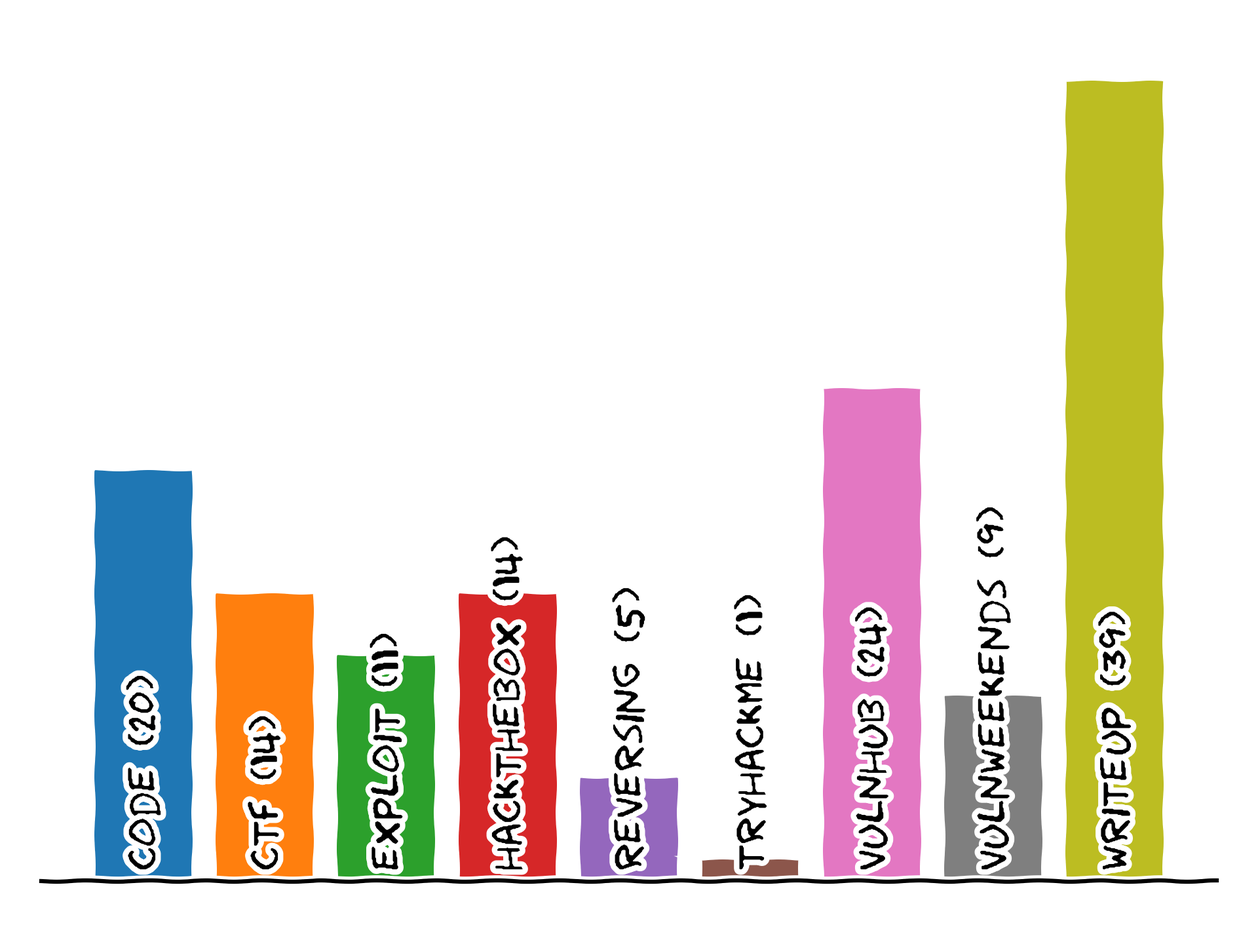
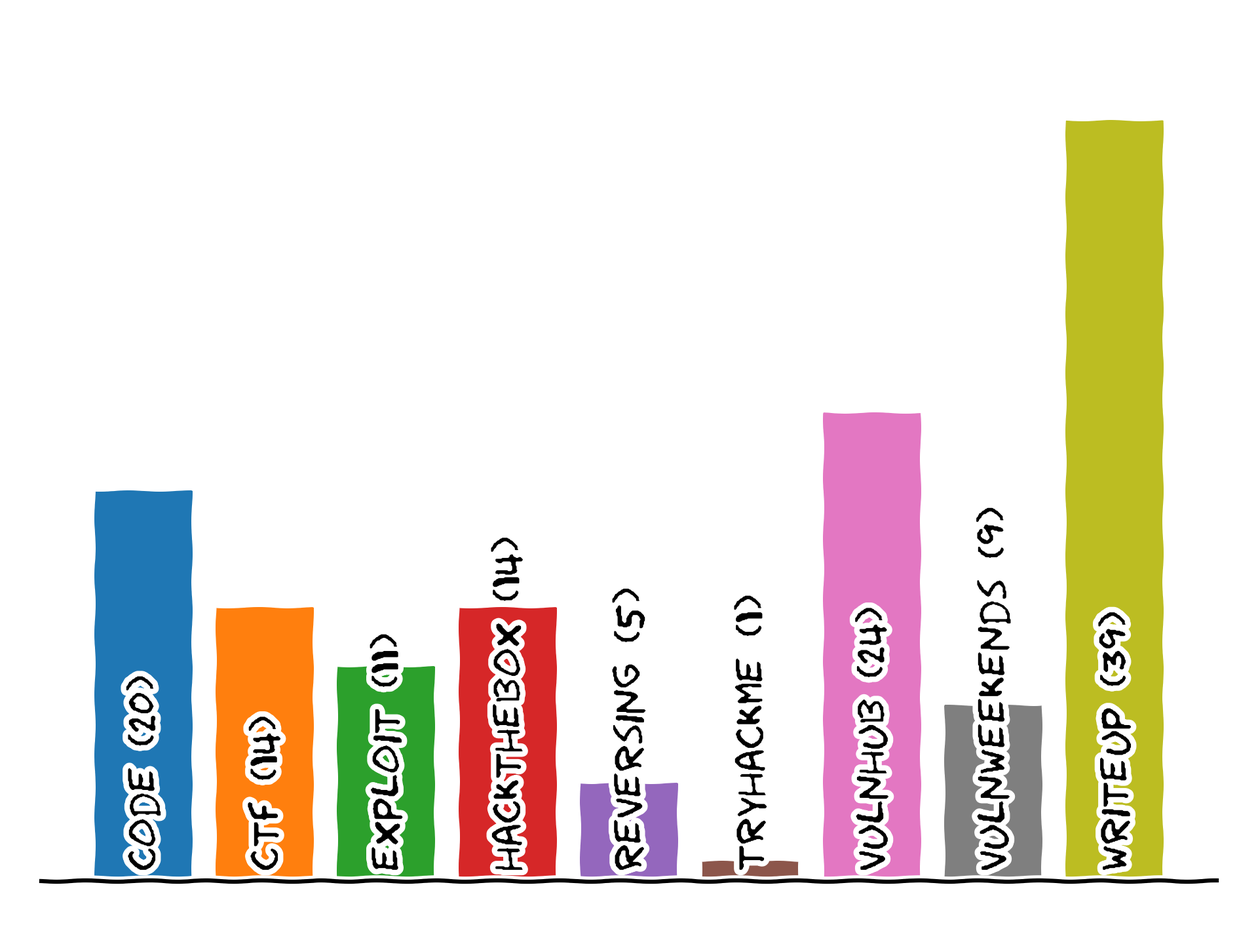
📺  It Compiles! 50 Points For Gryffindor.

diff --git a/tags.html b/tags.html
@@ -1,1 +1,1 @@
-<!DOCTYPE html><html lang=en><head><meta charset=utf-8><meta name=author content="Ankur Tyagi (@7h3rAm)"><meta name=description content="Personal Weblog"><meta content="width=device-width, initial-scale=1" name=viewport><title>मंथन | Manthan</title><link rel=icon type=image/webp sizes=32x32 href=/static/images/manthan-32x32.png.webp><link rel=stylesheet type=text/css media=screen href=/static/css/style.rainbow.css><style type=text/css>p{text-align:justify;text-justify:inter-word;}</style></head><body style=background-color:#fff0f5;><div class=header><table><tr><td><a href=/index.html class=menu_home>मंथन</a></td><td> | </td><td><a href=/archive.html class=menu_archive>Archive</a></td><td> | </td><td><a href=/tags.html class=menu_tags>Tags</a></td><td> | </td><td><a href=/stats.html class=menu_stats>Stats</a></td></tr></table></div><div class=body><h1>🔖 Tags <a name=top></a></h1><ul id=cloud><li><a style="font-size:1.0em; color:#20b2aa; padding:20px 5px 20px 5px;" href=/tags.html#tryhackme>tryhackme</a></li><li><a style="font-size:2.0em; color:#99cc99; padding:20px 5px 20px 5px;" href=/tags.html#exploit>exploit</a></li><li><a style="font-size:1.5em; font-weight:bold; color:#0c9; padding:20px 5px 20px 5px;" href=/tags.html#reversing>reversing</a></li><li><a style="font-size:2.0em; color:#99cc99; padding:20px 5px 20px 5px;" href=/tags.html#vulnweekends>vulnweekends</a></li><li><a style="font-size:3.5em; font-weight:bold; color:#ffcc66; padding:0px 5px 0px 5px;" href=/tags.html#code>code</a></li><li><a style="font-size:2.5em; font-weight:bold; color:#fe4164; padding:20px 5px 20px 5px;" href=/tags.html#ctf>ctf</a></li><li><a style="font-size:5.5em; font-weight:bold; color:#20b2aa; padding:0px 5px 0px 5px;" href=/tags.html#writeup>writeup</a></li><li><a style="font-size:4.0em; color:#00b7eb; padding:0px 5px 0px 5px;" href=/tags.html#vulnhub>vulnhub</a></li><li><a style="font-size:2.5em; font-weight:bold; color:#fe4164; padding:20px 5px 20px 5px;" href=/tags.html#hackthebox>hackthebox</a></li></ul><a name=code></a><h2>code <a href=#top> ↟ </a></h2><ol><li><code>12/Mar/2016</code>: <a href=/posts/20160312_circllu.html>circllu.py: Querying circl.lu API for CVE Information</a></li><li><code>22/Nov/2015</code>: <a href=/posts/20151122_cigma.html>cigma: A Pure Python Filetype Identification Library</a></li><li><code>02/Aug/2015</code>: <a href=/posts/20150802_capinfos.html>capinfos.py: Pure Python Pcap Statistics Tool</a></li><li><code>27/May/2015</code>: <a href=/posts/20150527_ebctf-bin100.html>Eindbazen CTF Challenge: bin100</a></li><li><code>12/Mar/2015</code>: <a href=/posts/20150312_chopshop-shellcode.html>Shellcode Detection Module in ChopShop</a></li><li><code>27/Nov/2014</code>: <a href=/posts/20141127_flowinspect.html>Flowinspect: A Network Inspection Tool</a></li><li><code>15/Nov/2014</code>: <a href=/posts/20141115_pcapedit.html>pcapedit: An Interactive Scapy-based Pcap Editor</a></li><li><code>18/Jun/2014</code>: <a href=/posts/20140618_pcapgentools-contentype-patch.html>PCAP-GenerationTools and Content-Type Identification Patch</a></li><li><code>06/May/2014</code>: <a href=/posts/20140506_confidence-ds-ctf-stego50.html>CONFidence DS CTF Teaser: Stegano50</a></li><li><code>27/Mar/2014</code>: <a href=/posts/20140327_northrop-challenge.html>Northrop's Online Challenge</a></li><li><code>18/Mar/2014</code>: <a href=/posts/20140318_shellcode-pipeline.html>Shellcode Analysis Pipleine</a></li><li><code>27/Nov/2013</code>: <a href=/posts/20131127_regex-to-dotgraph.html>Visualizing (non-POSIX) Regular Expressions</a></li><li><code>15/Sep/2013</code>: <a href=/posts/20130915_libnids-python-ids.html>Developing a Minimal IPS from Scratch</a></li><li><code>18/Jun/2013</code>: <a href=/posts/20130618_libnids-pynids.html>Network Stream Reassembly and Defragmentation</a></li><li><code>06/Mar/2013</code>: <a href=/posts/20130306_libemu-shellcode-detection.html>x86 Emulation and Shellcode Detection</a></li><li><code>02/Sep/2012</code>: <a href=/posts/20120902_soritong-m3u-seh-overflow.html>SoriTong MP3 Player .m3u File Parsing SEH Overflow</a></li><li><code>02/Sep/2012</code>: <a href=/posts/20120902_word-list-builder-dic-file-parsing-seh.html>Word List Builder .dic File Parsing SEH Overflow</a></li><li><code>02/Sep/2012</code>: <a href=/posts/20120902_shadow-stream-recorder-asx-jmpesp.html>Shadow Stream Recorder .asx File Parsing Buffer Overflow</a></li><li><code>02/Sep/2012</code>: <a href=/posts/20120902_millenium-mpf-seh.html>Millennium MP3 Studio .mpf File Parsing SEH Overflow</a></li><li><code>02/Sep/2012</code>: <a href=/posts/20120902_tfm-mmplayer-ppl-seh.html>TFM MMPlayer .ppl File Parsing SEH Overflow</a></li></ol><a name=ctf></a><h2>ctf <a href=#top> ↟ </a></h2><ol><li><code>18/Feb/2016</code>: <a href=/posts/20160218_flareon2014-15.html>FireEye FLARE On 2014 Challenges (1-5)</a></li><li><code>27/May/2015</code>: <a href=/posts/20150527_ebctf-bin100.html>Eindbazen CTF Challenge: bin100</a></li><li><code>18/Sep/2014</code>: <a href=/posts/20140918_little-pdf.html>Little PDF Puzzle from Didier Stevens</a></li><li><code>06/May/2014</code>: <a href=/posts/20140506_confidence-ds-ctf-stego50.html>CONFidence DS CTF Teaser: Stegano50</a></li><li><code>27/Mar/2014</code>: <a href=/posts/20140327_northrop-challenge.html>Northrop's Online Challenge</a></li><li><code>24/Feb/2014</code>: <a href=/posts/20140224_buf1-challenge.html>buf1 - Another Buffer Overflow Challenge</a></li><li><code>06/Jan/2014</code>: <a href=/posts/20140106_buf0-challenge.html>buf0 - A Buffer Overflow Challenge</a></li><li><code>29/Aug/2013</code>: <a href=/posts/20130829_malsoftware-reverse-challenge.html>reverse Challenge from Coursera's Malicious Software Course</a></li><li><code>24/Aug/2013</code>: <a href=/posts/20130824_malsoftware-reverse-ex.html>reverse-ex Challenge from Coursera's Malicious Software Course</a></li><li><code>05/Jan/2013</code>: <a href=/posts/20130105_geras-wuos-stack5-solutions.html>Gera's Warming Up on Stack #5 - Solutions</a></li><li><code>04/Jan/2013</code>: <a href=/posts/20130104_geras-wuos-stack4-solutions.html>Gera's Warming Up on Stack #4 - Solutions</a></li><li><code>03/Jan/2013</code>: <a href=/posts/20130103_geras-wuos-stack3-solutions.html>Gera's Warming Up on Stack #3 - Solutions</a></li><li><code>02/Jan/2013</code>: <a href=/posts/20130102_geras-wuos-stack2-solutions.html>Gera's Warming Up on Stack #2 - Solutions</a></li><li><code>27/Aug/2012</code>: <a href=/posts/20120827_geras-wuos-stack1-solutions.html>Gera's Warming Up on Stack #1 - Solutions</a></li></ol><a name=exploit></a><h2>exploit <a href=#top> ↟ </a></h2><ol><li><code>05/Jan/2013</code>: <a href=/posts/20130105_geras-wuos-stack5-solutions.html>Gera's Warming Up on Stack #5 - Solutions</a></li><li><code>04/Jan/2013</code>: <a href=/posts/20130104_geras-wuos-stack4-solutions.html>Gera's Warming Up on Stack #4 - Solutions</a></li><li><code>03/Jan/2013</code>: <a href=/posts/20130103_geras-wuos-stack3-solutions.html>Gera's Warming Up on Stack #3 - Solutions</a></li><li><code>02/Jan/2013</code>: <a href=/posts/20130102_geras-wuos-stack2-solutions.html>Gera's Warming Up on Stack #2 - Solutions</a></li><li><code>02/Sep/2012</code>: <a href=/posts/20120902_soritong-m3u-seh-overflow.html>SoriTong MP3 Player .m3u File Parsing SEH Overflow</a></li><li><code>02/Sep/2012</code>: <a href=/posts/20120902_word-list-builder-dic-file-parsing-seh.html>Word List Builder .dic File Parsing SEH Overflow</a></li><li><code>02/Sep/2012</code>: <a href=/posts/20120902_shadow-stream-recorder-asx-jmpesp.html>Shadow Stream Recorder .asx File Parsing Buffer Overflow</a></li><li><code>02/Sep/2012</code>: <a href=/posts/20120902_millenium-mpf-seh.html>Millennium MP3 Studio .mpf File Parsing SEH Overflow</a></li><li><code>02/Sep/2012</code>: <a href=/posts/20120902_tfm-mmplayer-ppl-seh.html>TFM MMPlayer .ppl File Parsing SEH Overflow</a></li><li><code>27/Aug/2012</code>: <a href=/posts/20120827_geras-wuos-stack1-solutions.html>Gera's Warming Up on Stack #1 - Solutions</a></li><li><code>10/Jul/2012</code>: <a href=/posts/20120710_exploit-mitigation-techniques-on-linux.html>Exploit Mitigation Techniques on Linux Systems</a></li></ol><a name=hackthebox></a><h2>hackthebox <a href=#top> ↟ </a></h2><ol><li><code>24/Nov/2020</code>: <a href=/posts/20201124_htb-buff.html>[HackTheBox] Buff</a></li><li><code>25/Jun/2020</code>: <a href=/posts/20200625_htb-bashed.html>[HackTheBox] Bashed</a></li><li><code>28/Apr/2020</code>: <a href=/posts/20200428_htb-archetype.html>[HackTheBox] Archetype</a></li><li><code>13/Nov/2019</code>: <a href=/posts/20191113_htb-cronos.html>[HackTheBox] CronOS</a></li><li><code>13/Nov/2019</code>: <a href=/posts/20191113_htb-shocker.html>[HackTheBox] Shocker</a></li><li><code>13/Nov/2019</code>: <a href=/posts/20191113_htb-blocky.html>[HackTheBox] Blocky</a></li><li><code>12/Nov/2019</code>: <a href=/posts/20191112_htb-mirai.html>[HackTheBox] Mirai</a></li><li><code>05/Nov/2019</code>: <a href=/posts/20191105_htb-devel.html>[HackTheBox] Devel</a></li><li><code>04/Nov/2019</code>: <a href=/posts/20191104_htb-granny.html>[HackTheBox] Granny</a></li><li><code>04/Nov/2019</code>: <a href=/posts/20191104_htb-optimum.html>[HackTheBox] Optimum</a></li><li><code>04/Nov/2019</code>: <a href=/posts/20191104_htb-grandpa.html>[HackTheBox] Grandpa</a></li><li><code>01/Nov/2019</code>: <a href=/posts/20191101_htb-lame.html>[HackTheBox] Lame</a></li><li><code>01/Nov/2019</code>: <a href=/posts/20191101_htb-legacy.html>[HackTheBox] Legacy</a></li><li><code>01/Nov/2019</code>: <a href=/posts/20191101_htb-blue.html>[HackTheBox] Blue</a></li></ol><a name=reversing></a><h2>reversing <a href=#top> ↟ </a></h2><ol><li><code>18/Sep/2014</code>: <a href=/posts/20140918_little-pdf.html>Little PDF Puzzle from Didier Stevens</a></li><li><code>18/Mar/2014</code>: <a href=/posts/20140318_shellcode-pipeline.html>Shellcode Analysis Pipleine</a></li><li><code>29/Aug/2013</code>: <a href=/posts/20130829_malsoftware-reverse-challenge.html>reverse Challenge from Coursera's Malicious Software Course</a></li><li><code>24/Aug/2013</code>: <a href=/posts/20130824_malsoftware-reverse-ex.html>reverse-ex Challenge from Coursera's Malicious Software Course</a></li><li><code>06/Mar/2013</code>: <a href=/posts/20130306_libemu-shellcode-detection.html>x86 Emulation and Shellcode Detection</a></li></ol><a name=tryhackme></a><h2>tryhackme <a href=#top> ↟ </a></h2><ol><li><code>30/Jul/2020</code>: <a href=/posts/20200730_thm-yotf.html>[TryHackMe] Year of the Fox</a></li></ol><a name=vulnhub></a><h2>vulnhub <a href=#top> ↟ </a></h2><ol><li><code>10/Aug/2020</code>: <a href=/posts/20200810_vulnhub-infosecpreposcp.html>[VulnHub] InfoSec Prep: OSCP</a></li><li><code>29/Oct/2019</code>: <a href=/posts/20191029_vulnhub-lazysysadmin1.html>[VulnHub] LazySysAdmin: 1</a></li><li><code>28/Oct/2019</code>: <a href=/posts/20191028_vulnhub-node1.html>[VulnHub] Node: 1</a></li><li><code>21/Oct/2019</code>: <a href=/posts/20191021_vulnhub-mrrobot1.html>[VulnHub] Mr-Robot: 1</a></li><li><code>17/Oct/2019</code>: <a href=/posts/20191017_vulnhub-moria11.html>[VulnHub] Moria: 1.1</a></li><li><code>11/Oct/2019</code>: <a href=/posts/20191011_vulnhub-misdirection1.html>[VulnHub] Misdirection: 1</a></li><li><code>10/Oct/2019</code>: <a href=/posts/20191010_vulnhub-linsecurity1.html>[VulnHub] Lin.Security: 1</a></li><li><code>10/Oct/2019</code>: <a href=/posts/20191010_vulnhub-lordoftheroot101.html>[VulnHub] Lord Of The Root: 1.0.1</a></li><li><code>09/Oct/2019</code>: <a href=/posts/20191009_vulnhub-kioptrix5.html>[VulnHub] Kioptrix: 2014 (#5)</a></li><li><code>08/Oct/2019</code>: <a href=/posts/20191008_vulnhub-kioptrix4.html>[VulnHub] Kioptrix: Level 1.3 (#4)</a></li><li><code>29/Sep/2019</code>: <a href=/posts/20190929_vulnhub-kioptrix3.html>[VulnHub] Kioptrix: Level 1.2 (#3)</a></li><li><code>28/Sep/2019</code>: <a href=/posts/20190928_vulnhub-kioptrix1.html>[VulnHub] Kioptrix: Level 1 (#1)</a></li><li><code>28/Sep/2019</code>: <a href=/posts/20190928_vulnhub-kioptrix2.html>[VulnHub] Kioptrix: Level 1.1 (#2)</a></li><li><code>27/Sep/2019</code>: <a href=/posts/20190927_vulnhub-hackme.html>[VulnHub] hackme: 1</a></li><li><code>26/Sep/2019</code>: <a href=/posts/20190926_vulnhub-imf.html>[VulnHub] IMF: 1</a></li><li><code>20/Sep/2019</code>: <a href=/posts/20190920_vulnhub-vulnix.html>[VulnHub] HackLAB: Vulnix</a></li><li><code>19/Sep/2019</code>: <a href=/posts/20190919_vulnhub-sedna.html>[VulnHub] hackfest2016: Sedna</a></li><li><code>18/Sep/2019</code>: <a href=/posts/20190918_vulnhub-quaoar.html>[VulnHub] hackfest2016: Quaoar</a></li><li><code>17/Sep/2019</code>: <a href=/posts/20190917_vulnhub-escalatelinux.html>[VulnHub] Escalate_Linux: 1</a></li><li><code>11/Sep/2019</code>: <a href=/posts/20190911_vulnhub-fristikeals1dot3.html>[VulnHub] FristiLeaks: 1.3</a></li><li><code>10/Sep/2019</code>: <a href=/posts/20190910_vulnhub-dc6.html>[VulnHub] DC: 6</a></li><li><code>09/Sep/2019</code>: <a href=/posts/20190909_vulnhub-bsidesvancouver2018workshop.html>[VulnHub] BSides Vancouver: 2018 (Workshop)</a></li><li><code>05/Sep/2019</code>: <a href=/posts/20190905_vulnhub-billymadison1dot1.html>[VulnHub] Billy Madison: 1.1</a></li><li><code>31/Aug/2019</code>: <a href=/posts/20190831_vulnhub-brainpan.html>[VulnHub] Brainpan: 1</a></li></ol><a name=vulnweekends></a><h2>vulnweekends <a href=#top> ↟ </a></h2><ol><li><code>02/Jun/2012</code>: <a href=/posts/20120602_vuln-weekends-8.html>Vulnerable Weekends #8: HP LoadRunner RCE</a></li><li><code>07/Jan/2012</code>: <a href=/posts/20120107_vuln-weekends-7.html>Vulnerable Weekends #7: Iptools rcmd DoS</a></li><li><code>01/Jan/2012</code>: <a href=/posts/20120101_vuln-weekends-6.html>Vulnerable Weekends #6: WPS Bruteforce and CoCSoft Stream Down</a></li><li><code>24/Dec/2011</code>: <a href=/posts/20111224_vuln-weekends-5.html>Vulnerable Weekends #5: MIT Kerberos and VLC TiVo</a></li><li><code>18/Dec/2011</code>: <a href=/posts/20111218_vuln-weekends-4.html>Vulnerable Weekends #4: Windows True-Type Fonts and Windows DVR-MS</a></li><li><code>10/Dec/2011</code>: <a href=/posts/20111210_vuln-weekends-3.html>Vulnerable Weekends #3: Cisco WebEx Player and ISC DHCP</a></li><li><code>03/Dec/2011</code>: <a href=/posts/20111203_vuln-weekends-2.html>Vulnerable Weekends #2: GNU GDB and Intel VT-d</a></li><li><code>20/Nov/2011</code>: <a href=/posts/20111120_vuln-weekends-1.html>Vulnerable Weekends #1: Mozilla and ProFTPd</a></li><li><code>16/Nov/2011</code>: <a href=/posts/20111116_vuln-weekends-intro.html>Vulnerable Weekends: Introduction</a></li></ol><a name=writeup></a><h2>writeup <a href=#top> ↟ </a></h2><ol><li><code>24/Nov/2020</code>: <a href=/posts/20201124_htb-buff.html>[HackTheBox] Buff</a></li><li><code>10/Aug/2020</code>: <a href=/posts/20200810_vulnhub-infosecpreposcp.html>[VulnHub] InfoSec Prep: OSCP</a></li><li><code>30/Jul/2020</code>: <a href=/posts/20200730_thm-yotf.html>[TryHackMe] Year of the Fox</a></li><li><code>25/Jun/2020</code>: <a href=/posts/20200625_htb-bashed.html>[HackTheBox] Bashed</a></li><li><code>28/Apr/2020</code>: <a href=/posts/20200428_htb-archetype.html>[HackTheBox] Archetype</a></li><li><code>13/Nov/2019</code>: <a href=/posts/20191113_htb-cronos.html>[HackTheBox] CronOS</a></li><li><code>13/Nov/2019</code>: <a href=/posts/20191113_htb-shocker.html>[HackTheBox] Shocker</a></li><li><code>13/Nov/2019</code>: <a href=/posts/20191113_htb-blocky.html>[HackTheBox] Blocky</a></li><li><code>12/Nov/2019</code>: <a href=/posts/20191112_htb-mirai.html>[HackTheBox] Mirai</a></li><li><code>05/Nov/2019</code>: <a href=/posts/20191105_htb-devel.html>[HackTheBox] Devel</a></li><li><code>04/Nov/2019</code>: <a href=/posts/20191104_htb-granny.html>[HackTheBox] Granny</a></li><li><code>04/Nov/2019</code>: <a href=/posts/20191104_htb-optimum.html>[HackTheBox] Optimum</a></li><li><code>04/Nov/2019</code>: <a href=/posts/20191104_htb-grandpa.html>[HackTheBox] Grandpa</a></li><li><code>01/Nov/2019</code>: <a href=/posts/20191101_htb-lame.html>[HackTheBox] Lame</a></li><li><code>01/Nov/2019</code>: <a href=/posts/20191101_htb-legacy.html>[HackTheBox] Legacy</a></li><li><code>01/Nov/2019</code>: <a href=/posts/20191101_htb-blue.html>[HackTheBox] Blue</a></li><li><code>29/Oct/2019</code>: <a href=/posts/20191029_vulnhub-lazysysadmin1.html>[VulnHub] LazySysAdmin: 1</a></li><li><code>28/Oct/2019</code>: <a href=/posts/20191028_vulnhub-node1.html>[VulnHub] Node: 1</a></li><li><code>21/Oct/2019</code>: <a href=/posts/20191021_vulnhub-mrrobot1.html>[VulnHub] Mr-Robot: 1</a></li><li><code>17/Oct/2019</code>: <a href=/posts/20191017_vulnhub-moria11.html>[VulnHub] Moria: 1.1</a></li><li><code>11/Oct/2019</code>: <a href=/posts/20191011_vulnhub-misdirection1.html>[VulnHub] Misdirection: 1</a></li><li><code>10/Oct/2019</code>: <a href=/posts/20191010_vulnhub-linsecurity1.html>[VulnHub] Lin.Security: 1</a></li><li><code>10/Oct/2019</code>: <a href=/posts/20191010_vulnhub-lordoftheroot101.html>[VulnHub] Lord Of The Root: 1.0.1</a></li><li><code>09/Oct/2019</code>: <a href=/posts/20191009_vulnhub-kioptrix5.html>[VulnHub] Kioptrix: 2014 (#5)</a></li><li><code>08/Oct/2019</code>: <a href=/posts/20191008_vulnhub-kioptrix4.html>[VulnHub] Kioptrix: Level 1.3 (#4)</a></li><li><code>29/Sep/2019</code>: <a href=/posts/20190929_vulnhub-kioptrix3.html>[VulnHub] Kioptrix: Level 1.2 (#3)</a></li><li><code>28/Sep/2019</code>: <a href=/posts/20190928_vulnhub-kioptrix1.html>[VulnHub] Kioptrix: Level 1 (#1)</a></li><li><code>28/Sep/2019</code>: <a href=/posts/20190928_vulnhub-kioptrix2.html>[VulnHub] Kioptrix: Level 1.1 (#2)</a></li><li><code>27/Sep/2019</code>: <a href=/posts/20190927_vulnhub-hackme.html>[VulnHub] hackme: 1</a></li><li><code>26/Sep/2019</code>: <a href=/posts/20190926_vulnhub-imf.html>[VulnHub] IMF: 1</a></li><li><code>20/Sep/2019</code>: <a href=/posts/20190920_vulnhub-vulnix.html>[VulnHub] HackLAB: Vulnix</a></li><li><code>19/Sep/2019</code>: <a href=/posts/20190919_vulnhub-sedna.html>[VulnHub] hackfest2016: Sedna</a></li><li><code>18/Sep/2019</code>: <a href=/posts/20190918_vulnhub-quaoar.html>[VulnHub] hackfest2016: Quaoar</a></li><li><code>17/Sep/2019</code>: <a href=/posts/20190917_vulnhub-escalatelinux.html>[VulnHub] Escalate_Linux: 1</a></li><li><code>11/Sep/2019</code>: <a href=/posts/20190911_vulnhub-fristikeals1dot3.html>[VulnHub] FristiLeaks: 1.3</a></li><li><code>10/Sep/2019</code>: <a href=/posts/20190910_vulnhub-dc6.html>[VulnHub] DC: 6</a></li><li><code>09/Sep/2019</code>: <a href=/posts/20190909_vulnhub-bsidesvancouver2018workshop.html>[VulnHub] BSides Vancouver: 2018 (Workshop)</a></li><li><code>05/Sep/2019</code>: <a href=/posts/20190905_vulnhub-billymadison1dot1.html>[VulnHub] Billy Madison: 1.1</a></li><li><code>31/Aug/2019</code>: <a href=/posts/20190831_vulnhub-brainpan.html>[VulnHub] Brainpan: 1</a></li></ol><br></div><script>function toggle(s){s.classList.toggle("expanded");var t=!1,i=!1,a=!1;s.classList.contains("h2")&&(t=!0),s.classList.contains("h3")&&(i=!0),s.classList.contains("h4")&&(a=!0),console.log(s),console.log(t),console.log(i),console.log(a);for(var l=s.nextElementSibling;l;){if(t&&l.classList.contains("h2")){l.classList.toggle("active");break}if(i&&(l.classList.contains("h2")||l.classList.contains("h3"))){l.classList.toggle("active");break}if(a&&(l.classList.contains("h2")||l.classList.contains("h3")||l.classList.contains("h4"))){l.classList.toggle("active");break}l.classList.contains("collapsible")&&l.classList.toggle("expanded"),l.classList.toggle("active"),l=l.nextElementSibling}}</script><script data-goatcounter=https://manthan.goatcounter.com/count async src=//gc.zgo.at/count.js></script><div class="footer footercenter"><span><a href=https://creativecommons.org/licenses/by-sa/4.0/ class=footspan>  </a></span></div></body></html>
+<!DOCTYPE html><html lang=en><head><meta charset=utf-8><meta name=author content="Ankur Tyagi (@7h3rAm)"><meta name=description content="Personal Weblog"><meta content="width=device-width, initial-scale=1" name=viewport><title>मंथन | Manthan</title><link rel=icon type=image/webp sizes=32x32 href=/static/images/manthan-32x32.png.webp><link rel=stylesheet type=text/css media=screen href=/static/css/style.rainbow.css><style type=text/css>p{text-align:justify;text-justify:inter-word;}</style></head><body style=background-color:#fff0f5;><div class=header><table><tr><td><a href=/index.html class=menu_home>मंथन</a></td><td> | </td><td><a href=/archive.html class=menu_archive>Archive</a></td><td> | </td><td><a href=/tags.html class=menu_tags>Tags</a></td><td> | </td><td><a href=/stats.html class=menu_stats>Stats</a></td></tr></table></div><div class=body><h1>🔖 Tags <a name=top></a></h1><ul id=cloud><li><a style="font-size:2.0em; color:#0c9; padding:20px 5px 20px 5px;" href=/tags.html#exploit>exploit</a></li><li><a style="font-size:1.0em; color:#5b92e5; padding:20px 5px 20px 5px;" href=/tags.html#tryhackme>tryhackme</a></li><li><a style="font-size:2.0em; color:#0c9; padding:20px 5px 20px 5px;" href=/tags.html#vulnweekends>vulnweekends</a></li><li><a style="font-size:3.5em; font-weight:bold; color:#20b2aa; padding:0px 5px 0px 5px;" href=/tags.html#code>code</a></li><li><a style="font-size:2.5em; font-weight:bold; color:#fe4164; padding:20px 5px 20px 5px;" href=/tags.html#ctf>ctf</a></li><li><a style="font-size:2.5em; font-weight:bold; color:#fe4164; padding:20px 5px 20px 5px;" href=/tags.html#hackthebox>hackthebox</a></li><li><a style="font-size:5.5em; font-weight:bold; color:#5b92e5; padding:0px 5px 0px 5px;" href=/tags.html#writeup>writeup</a></li><li><a style="font-size:4.0em; color:#00b7eb; padding:0px 5px 0px 5px;" href=/tags.html#vulnhub>vulnhub</a></li><li><a style="font-size:1.5em; font-weight:bold; color:#99cc99; padding:20px 5px 20px 5px;" href=/tags.html#reversing>reversing</a></li></ul><a name=code></a><h2>code <a href=#top> ↟ </a></h2><ol><li><code>12/Mar/2016</code>: <a href=/posts/20160312_circllu.html>circllu.py: Querying circl.lu API for CVE Information</a></li><li><code>22/Nov/2015</code>: <a href=/posts/20151122_cigma.html>cigma: A Pure Python Filetype Identification Library</a></li><li><code>02/Aug/2015</code>: <a href=/posts/20150802_capinfos.html>capinfos.py: Pure Python Pcap Statistics Tool</a></li><li><code>27/May/2015</code>: <a href=/posts/20150527_ebctf-bin100.html>Eindbazen CTF Challenge: bin100</a></li><li><code>12/Mar/2015</code>: <a href=/posts/20150312_chopshop-shellcode.html>Shellcode Detection Module in ChopShop</a></li><li><code>27/Nov/2014</code>: <a href=/posts/20141127_flowinspect.html>Flowinspect: A Network Inspection Tool</a></li><li><code>15/Nov/2014</code>: <a href=/posts/20141115_pcapedit.html>pcapedit: An Interactive Scapy-based Pcap Editor</a></li><li><code>18/Jun/2014</code>: <a href=/posts/20140618_pcapgentools-contentype-patch.html>PCAP-GenerationTools and Content-Type Identification Patch</a></li><li><code>06/May/2014</code>: <a href=/posts/20140506_confidence-ds-ctf-stego50.html>CONFidence DS CTF Teaser: Stegano50</a></li><li><code>27/Mar/2014</code>: <a href=/posts/20140327_northrop-challenge.html>Northrop's Online Challenge</a></li><li><code>18/Mar/2014</code>: <a href=/posts/20140318_shellcode-pipeline.html>Shellcode Analysis Pipleine</a></li><li><code>27/Nov/2013</code>: <a href=/posts/20131127_regex-to-dotgraph.html>Visualizing (non-POSIX) Regular Expressions</a></li><li><code>15/Sep/2013</code>: <a href=/posts/20130915_libnids-python-ids.html>Developing a Minimal IPS from Scratch</a></li><li><code>18/Jun/2013</code>: <a href=/posts/20130618_libnids-pynids.html>Network Stream Reassembly and Defragmentation</a></li><li><code>06/Mar/2013</code>: <a href=/posts/20130306_libemu-shellcode-detection.html>x86 Emulation and Shellcode Detection</a></li><li><code>02/Sep/2012</code>: <a href=/posts/20120902_soritong-m3u-seh-overflow.html>SoriTong MP3 Player .m3u File Parsing SEH Overflow</a></li><li><code>02/Sep/2012</code>: <a href=/posts/20120902_word-list-builder-dic-file-parsing-seh.html>Word List Builder .dic File Parsing SEH Overflow</a></li><li><code>02/Sep/2012</code>: <a href=/posts/20120902_shadow-stream-recorder-asx-jmpesp.html>Shadow Stream Recorder .asx File Parsing Buffer Overflow</a></li><li><code>02/Sep/2012</code>: <a href=/posts/20120902_millenium-mpf-seh.html>Millennium MP3 Studio .mpf File Parsing SEH Overflow</a></li><li><code>02/Sep/2012</code>: <a href=/posts/20120902_tfm-mmplayer-ppl-seh.html>TFM MMPlayer .ppl File Parsing SEH Overflow</a></li></ol><a name=ctf></a><h2>ctf <a href=#top> ↟ </a></h2><ol><li><code>18/Feb/2016</code>: <a href=/posts/20160218_flareon2014-15.html>FireEye FLARE On 2014 Challenges (1-5)</a></li><li><code>27/May/2015</code>: <a href=/posts/20150527_ebctf-bin100.html>Eindbazen CTF Challenge: bin100</a></li><li><code>18/Sep/2014</code>: <a href=/posts/20140918_little-pdf.html>Little PDF Puzzle from Didier Stevens</a></li><li><code>06/May/2014</code>: <a href=/posts/20140506_confidence-ds-ctf-stego50.html>CONFidence DS CTF Teaser: Stegano50</a></li><li><code>27/Mar/2014</code>: <a href=/posts/20140327_northrop-challenge.html>Northrop's Online Challenge</a></li><li><code>24/Feb/2014</code>: <a href=/posts/20140224_buf1-challenge.html>buf1 - Another Buffer Overflow Challenge</a></li><li><code>06/Jan/2014</code>: <a href=/posts/20140106_buf0-challenge.html>buf0 - A Buffer Overflow Challenge</a></li><li><code>29/Aug/2013</code>: <a href=/posts/20130829_malsoftware-reverse-challenge.html>reverse Challenge from Coursera's Malicious Software Course</a></li><li><code>24/Aug/2013</code>: <a href=/posts/20130824_malsoftware-reverse-ex.html>reverse-ex Challenge from Coursera's Malicious Software Course</a></li><li><code>05/Jan/2013</code>: <a href=/posts/20130105_geras-wuos-stack5-solutions.html>Gera's Warming Up on Stack #5 - Solutions</a></li><li><code>04/Jan/2013</code>: <a href=/posts/20130104_geras-wuos-stack4-solutions.html>Gera's Warming Up on Stack #4 - Solutions</a></li><li><code>03/Jan/2013</code>: <a href=/posts/20130103_geras-wuos-stack3-solutions.html>Gera's Warming Up on Stack #3 - Solutions</a></li><li><code>02/Jan/2013</code>: <a href=/posts/20130102_geras-wuos-stack2-solutions.html>Gera's Warming Up on Stack #2 - Solutions</a></li><li><code>27/Aug/2012</code>: <a href=/posts/20120827_geras-wuos-stack1-solutions.html>Gera's Warming Up on Stack #1 - Solutions</a></li></ol><a name=exploit></a><h2>exploit <a href=#top> ↟ </a></h2><ol><li><code>05/Jan/2013</code>: <a href=/posts/20130105_geras-wuos-stack5-solutions.html>Gera's Warming Up on Stack #5 - Solutions</a></li><li><code>04/Jan/2013</code>: <a href=/posts/20130104_geras-wuos-stack4-solutions.html>Gera's Warming Up on Stack #4 - Solutions</a></li><li><code>03/Jan/2013</code>: <a href=/posts/20130103_geras-wuos-stack3-solutions.html>Gera's Warming Up on Stack #3 - Solutions</a></li><li><code>02/Jan/2013</code>: <a href=/posts/20130102_geras-wuos-stack2-solutions.html>Gera's Warming Up on Stack #2 - Solutions</a></li><li><code>02/Sep/2012</code>: <a href=/posts/20120902_soritong-m3u-seh-overflow.html>SoriTong MP3 Player .m3u File Parsing SEH Overflow</a></li><li><code>02/Sep/2012</code>: <a href=/posts/20120902_word-list-builder-dic-file-parsing-seh.html>Word List Builder .dic File Parsing SEH Overflow</a></li><li><code>02/Sep/2012</code>: <a href=/posts/20120902_shadow-stream-recorder-asx-jmpesp.html>Shadow Stream Recorder .asx File Parsing Buffer Overflow</a></li><li><code>02/Sep/2012</code>: <a href=/posts/20120902_millenium-mpf-seh.html>Millennium MP3 Studio .mpf File Parsing SEH Overflow</a></li><li><code>02/Sep/2012</code>: <a href=/posts/20120902_tfm-mmplayer-ppl-seh.html>TFM MMPlayer .ppl File Parsing SEH Overflow</a></li><li><code>27/Aug/2012</code>: <a href=/posts/20120827_geras-wuos-stack1-solutions.html>Gera's Warming Up on Stack #1 - Solutions</a></li><li><code>10/Jul/2012</code>: <a href=/posts/20120710_exploit-mitigation-techniques-on-linux.html>Exploit Mitigation Techniques on Linux Systems</a></li></ol><a name=hackthebox></a><h2>hackthebox <a href=#top> ↟ </a></h2><ol><li><code>24/Nov/2020</code>: <a href=/posts/20201124_htb-buff.html>[HackTheBox] Buff</a></li><li><code>25/Jun/2020</code>: <a href=/posts/20200625_htb-bashed.html>[HackTheBox] Bashed</a></li><li><code>28/Apr/2020</code>: <a href=/posts/20200428_htb-archetype.html>[HackTheBox] Archetype</a></li><li><code>13/Nov/2019</code>: <a href=/posts/20191113_htb-cronos.html>[HackTheBox] CronOS</a></li><li><code>13/Nov/2019</code>: <a href=/posts/20191113_htb-shocker.html>[HackTheBox] Shocker</a></li><li><code>13/Nov/2019</code>: <a href=/posts/20191113_htb-blocky.html>[HackTheBox] Blocky</a></li><li><code>12/Nov/2019</code>: <a href=/posts/20191112_htb-mirai.html>[HackTheBox] Mirai</a></li><li><code>05/Nov/2019</code>: <a href=/posts/20191105_htb-devel.html>[HackTheBox] Devel</a></li><li><code>04/Nov/2019</code>: <a href=/posts/20191104_htb-granny.html>[HackTheBox] Granny</a></li><li><code>04/Nov/2019</code>: <a href=/posts/20191104_htb-optimum.html>[HackTheBox] Optimum</a></li><li><code>04/Nov/2019</code>: <a href=/posts/20191104_htb-grandpa.html>[HackTheBox] Grandpa</a></li><li><code>01/Nov/2019</code>: <a href=/posts/20191101_htb-lame.html>[HackTheBox] Lame</a></li><li><code>01/Nov/2019</code>: <a href=/posts/20191101_htb-legacy.html>[HackTheBox] Legacy</a></li><li><code>01/Nov/2019</code>: <a href=/posts/20191101_htb-blue.html>[HackTheBox] Blue</a></li></ol><a name=reversing></a><h2>reversing <a href=#top> ↟ </a></h2><ol><li><code>18/Sep/2014</code>: <a href=/posts/20140918_little-pdf.html>Little PDF Puzzle from Didier Stevens</a></li><li><code>18/Mar/2014</code>: <a href=/posts/20140318_shellcode-pipeline.html>Shellcode Analysis Pipleine</a></li><li><code>29/Aug/2013</code>: <a href=/posts/20130829_malsoftware-reverse-challenge.html>reverse Challenge from Coursera's Malicious Software Course</a></li><li><code>24/Aug/2013</code>: <a href=/posts/20130824_malsoftware-reverse-ex.html>reverse-ex Challenge from Coursera's Malicious Software Course</a></li><li><code>06/Mar/2013</code>: <a href=/posts/20130306_libemu-shellcode-detection.html>x86 Emulation and Shellcode Detection</a></li></ol><a name=tryhackme></a><h2>tryhackme <a href=#top> ↟ </a></h2><ol><li><code>30/Jul/2020</code>: <a href=/posts/20200730_thm-yotf.html>[TryHackMe] Year of the Fox</a></li></ol><a name=vulnhub></a><h2>vulnhub <a href=#top> ↟ </a></h2><ol><li><code>10/Aug/2020</code>: <a href=/posts/20200810_vulnhub-infosecpreposcp.html>[VulnHub] InfoSec Prep: OSCP</a></li><li><code>29/Oct/2019</code>: <a href=/posts/20191029_vulnhub-lazysysadmin1.html>[VulnHub] LazySysAdmin: 1</a></li><li><code>28/Oct/2019</code>: <a href=/posts/20191028_vulnhub-node1.html>[VulnHub] Node: 1</a></li><li><code>21/Oct/2019</code>: <a href=/posts/20191021_vulnhub-mrrobot1.html>[VulnHub] Mr-Robot: 1</a></li><li><code>17/Oct/2019</code>: <a href=/posts/20191017_vulnhub-moria11.html>[VulnHub] Moria: 1.1</a></li><li><code>11/Oct/2019</code>: <a href=/posts/20191011_vulnhub-misdirection1.html>[VulnHub] Misdirection: 1</a></li><li><code>10/Oct/2019</code>: <a href=/posts/20191010_vulnhub-linsecurity1.html>[VulnHub] Lin.Security: 1</a></li><li><code>10/Oct/2019</code>: <a href=/posts/20191010_vulnhub-lordoftheroot101.html>[VulnHub] Lord Of The Root: 1.0.1</a></li><li><code>09/Oct/2019</code>: <a href=/posts/20191009_vulnhub-kioptrix5.html>[VulnHub] Kioptrix: 2014 (#5)</a></li><li><code>08/Oct/2019</code>: <a href=/posts/20191008_vulnhub-kioptrix4.html>[VulnHub] Kioptrix: Level 1.3 (#4)</a></li><li><code>29/Sep/2019</code>: <a href=/posts/20190929_vulnhub-kioptrix3.html>[VulnHub] Kioptrix: Level 1.2 (#3)</a></li><li><code>28/Sep/2019</code>: <a href=/posts/20190928_vulnhub-kioptrix1.html>[VulnHub] Kioptrix: Level 1 (#1)</a></li><li><code>28/Sep/2019</code>: <a href=/posts/20190928_vulnhub-kioptrix2.html>[VulnHub] Kioptrix: Level 1.1 (#2)</a></li><li><code>27/Sep/2019</code>: <a href=/posts/20190927_vulnhub-hackme.html>[VulnHub] hackme: 1</a></li><li><code>26/Sep/2019</code>: <a href=/posts/20190926_vulnhub-imf.html>[VulnHub] IMF: 1</a></li><li><code>20/Sep/2019</code>: <a href=/posts/20190920_vulnhub-vulnix.html>[VulnHub] HackLAB: Vulnix</a></li><li><code>19/Sep/2019</code>: <a href=/posts/20190919_vulnhub-sedna.html>[VulnHub] hackfest2016: Sedna</a></li><li><code>18/Sep/2019</code>: <a href=/posts/20190918_vulnhub-quaoar.html>[VulnHub] hackfest2016: Quaoar</a></li><li><code>17/Sep/2019</code>: <a href=/posts/20190917_vulnhub-escalatelinux.html>[VulnHub] Escalate_Linux: 1</a></li><li><code>11/Sep/2019</code>: <a href=/posts/20190911_vulnhub-fristikeals1dot3.html>[VulnHub] FristiLeaks: 1.3</a></li><li><code>10/Sep/2019</code>: <a href=/posts/20190910_vulnhub-dc6.html>[VulnHub] DC: 6</a></li><li><code>09/Sep/2019</code>: <a href=/posts/20190909_vulnhub-bsidesvancouver2018workshop.html>[VulnHub] BSides Vancouver: 2018 (Workshop)</a></li><li><code>05/Sep/2019</code>: <a href=/posts/20190905_vulnhub-billymadison1dot1.html>[VulnHub] Billy Madison: 1.1</a></li><li><code>31/Aug/2019</code>: <a href=/posts/20190831_vulnhub-brainpan.html>[VulnHub] Brainpan: 1</a></li></ol><a name=vulnweekends></a><h2>vulnweekends <a href=#top> ↟ </a></h2><ol><li><code>02/Jun/2012</code>: <a href=/posts/20120602_vuln-weekends-8.html>Vulnerable Weekends #8: HP LoadRunner RCE</a></li><li><code>07/Jan/2012</code>: <a href=/posts/20120107_vuln-weekends-7.html>Vulnerable Weekends #7: Iptools rcmd DoS</a></li><li><code>01/Jan/2012</code>: <a href=/posts/20120101_vuln-weekends-6.html>Vulnerable Weekends #6: WPS Bruteforce and CoCSoft Stream Down</a></li><li><code>24/Dec/2011</code>: <a href=/posts/20111224_vuln-weekends-5.html>Vulnerable Weekends #5: MIT Kerberos and VLC TiVo</a></li><li><code>18/Dec/2011</code>: <a href=/posts/20111218_vuln-weekends-4.html>Vulnerable Weekends #4: Windows True-Type Fonts and Windows DVR-MS</a></li><li><code>10/Dec/2011</code>: <a href=/posts/20111210_vuln-weekends-3.html>Vulnerable Weekends #3: Cisco WebEx Player and ISC DHCP</a></li><li><code>03/Dec/2011</code>: <a href=/posts/20111203_vuln-weekends-2.html>Vulnerable Weekends #2: GNU GDB and Intel VT-d</a></li><li><code>20/Nov/2011</code>: <a href=/posts/20111120_vuln-weekends-1.html>Vulnerable Weekends #1: Mozilla and ProFTPd</a></li><li><code>16/Nov/2011</code>: <a href=/posts/20111116_vuln-weekends-intro.html>Vulnerable Weekends: Introduction</a></li></ol><a name=writeup></a><h2>writeup <a href=#top> ↟ </a></h2><ol><li><code>24/Nov/2020</code>: <a href=/posts/20201124_htb-buff.html>[HackTheBox] Buff</a></li><li><code>10/Aug/2020</code>: <a href=/posts/20200810_vulnhub-infosecpreposcp.html>[VulnHub] InfoSec Prep: OSCP</a></li><li><code>30/Jul/2020</code>: <a href=/posts/20200730_thm-yotf.html>[TryHackMe] Year of the Fox</a></li><li><code>25/Jun/2020</code>: <a href=/posts/20200625_htb-bashed.html>[HackTheBox] Bashed</a></li><li><code>28/Apr/2020</code>: <a href=/posts/20200428_htb-archetype.html>[HackTheBox] Archetype</a></li><li><code>13/Nov/2019</code>: <a href=/posts/20191113_htb-cronos.html>[HackTheBox] CronOS</a></li><li><code>13/Nov/2019</code>: <a href=/posts/20191113_htb-shocker.html>[HackTheBox] Shocker</a></li><li><code>13/Nov/2019</code>: <a href=/posts/20191113_htb-blocky.html>[HackTheBox] Blocky</a></li><li><code>12/Nov/2019</code>: <a href=/posts/20191112_htb-mirai.html>[HackTheBox] Mirai</a></li><li><code>05/Nov/2019</code>: <a href=/posts/20191105_htb-devel.html>[HackTheBox] Devel</a></li><li><code>04/Nov/2019</code>: <a href=/posts/20191104_htb-granny.html>[HackTheBox] Granny</a></li><li><code>04/Nov/2019</code>: <a href=/posts/20191104_htb-optimum.html>[HackTheBox] Optimum</a></li><li><code>04/Nov/2019</code>: <a href=/posts/20191104_htb-grandpa.html>[HackTheBox] Grandpa</a></li><li><code>01/Nov/2019</code>: <a href=/posts/20191101_htb-lame.html>[HackTheBox] Lame</a></li><li><code>01/Nov/2019</code>: <a href=/posts/20191101_htb-legacy.html>[HackTheBox] Legacy</a></li><li><code>01/Nov/2019</code>: <a href=/posts/20191101_htb-blue.html>[HackTheBox] Blue</a></li><li><code>29/Oct/2019</code>: <a href=/posts/20191029_vulnhub-lazysysadmin1.html>[VulnHub] LazySysAdmin: 1</a></li><li><code>28/Oct/2019</code>: <a href=/posts/20191028_vulnhub-node1.html>[VulnHub] Node: 1</a></li><li><code>21/Oct/2019</code>: <a href=/posts/20191021_vulnhub-mrrobot1.html>[VulnHub] Mr-Robot: 1</a></li><li><code>17/Oct/2019</code>: <a href=/posts/20191017_vulnhub-moria11.html>[VulnHub] Moria: 1.1</a></li><li><code>11/Oct/2019</code>: <a href=/posts/20191011_vulnhub-misdirection1.html>[VulnHub] Misdirection: 1</a></li><li><code>10/Oct/2019</code>: <a href=/posts/20191010_vulnhub-linsecurity1.html>[VulnHub] Lin.Security: 1</a></li><li><code>10/Oct/2019</code>: <a href=/posts/20191010_vulnhub-lordoftheroot101.html>[VulnHub] Lord Of The Root: 1.0.1</a></li><li><code>09/Oct/2019</code>: <a href=/posts/20191009_vulnhub-kioptrix5.html>[VulnHub] Kioptrix: 2014 (#5)</a></li><li><code>08/Oct/2019</code>: <a href=/posts/20191008_vulnhub-kioptrix4.html>[VulnHub] Kioptrix: Level 1.3 (#4)</a></li><li><code>29/Sep/2019</code>: <a href=/posts/20190929_vulnhub-kioptrix3.html>[VulnHub] Kioptrix: Level 1.2 (#3)</a></li><li><code>28/Sep/2019</code>: <a href=/posts/20190928_vulnhub-kioptrix1.html>[VulnHub] Kioptrix: Level 1 (#1)</a></li><li><code>28/Sep/2019</code>: <a href=/posts/20190928_vulnhub-kioptrix2.html>[VulnHub] Kioptrix: Level 1.1 (#2)</a></li><li><code>27/Sep/2019</code>: <a href=/posts/20190927_vulnhub-hackme.html>[VulnHub] hackme: 1</a></li><li><code>26/Sep/2019</code>: <a href=/posts/20190926_vulnhub-imf.html>[VulnHub] IMF: 1</a></li><li><code>20/Sep/2019</code>: <a href=/posts/20190920_vulnhub-vulnix.html>[VulnHub] HackLAB: Vulnix</a></li><li><code>19/Sep/2019</code>: <a href=/posts/20190919_vulnhub-sedna.html>[VulnHub] hackfest2016: Sedna</a></li><li><code>18/Sep/2019</code>: <a href=/posts/20190918_vulnhub-quaoar.html>[VulnHub] hackfest2016: Quaoar</a></li><li><code>17/Sep/2019</code>: <a href=/posts/20190917_vulnhub-escalatelinux.html>[VulnHub] Escalate_Linux: 1</a></li><li><code>11/Sep/2019</code>: <a href=/posts/20190911_vulnhub-fristikeals1dot3.html>[VulnHub] FristiLeaks: 1.3</a></li><li><code>10/Sep/2019</code>: <a href=/posts/20190910_vulnhub-dc6.html>[VulnHub] DC: 6</a></li><li><code>09/Sep/2019</code>: <a href=/posts/20190909_vulnhub-bsidesvancouver2018workshop.html>[VulnHub] BSides Vancouver: 2018 (Workshop)</a></li><li><code>05/Sep/2019</code>: <a href=/posts/20190905_vulnhub-billymadison1dot1.html>[VulnHub] Billy Madison: 1.1</a></li><li><code>31/Aug/2019</code>: <a href=/posts/20190831_vulnhub-brainpan.html>[VulnHub] Brainpan: 1</a></li></ol><br></div><script>function toggle(s){s.classList.toggle("expanded");var t=!1,i=!1,a=!1;s.classList.contains("h2")&&(t=!0),s.classList.contains("h3")&&(i=!0),s.classList.contains("h4")&&(a=!0),console.log(s),console.log(t),console.log(i),console.log(a);for(var l=s.nextElementSibling;l;){if(t&&l.classList.contains("h2")){l.classList.toggle("active");break}if(i&&(l.classList.contains("h2")||l.classList.contains("h3"))){l.classList.toggle("active");break}if(a&&(l.classList.contains("h2")||l.classList.contains("h3")||l.classList.contains("h4"))){l.classList.toggle("active");break}l.classList.contains("collapsible")&&l.classList.toggle("expanded"),l.classList.toggle("active"),l=l.nextElementSibling}}</script><script data-goatcounter=https://manthan.goatcounter.com/count async src=//gc.zgo.at/count.js></script><div class="footer footercenter"><span><a href=https://creativecommons.org/licenses/by-sa/4.0/ class=footspan>  </a></span></div></body></html>

diff --git a/stats.html b/stats.html
@@ -1,1 +1,1 @@
-<!DOCTYPE html><html lang=en><head><meta charset=utf-8><meta name=author content="Ankur Tyagi (@7h3rAm)"><meta name=description content="Personal Weblog"><meta content="width=device-width, initial-scale=1" name=viewport><title>मंथन | Manthan</title><link rel=icon type=image/webp sizes=32x32 href=/static/images/manthan-32x32.png.webp><link rel=stylesheet type=text/css media=screen href=/static/css/style.rainbow.css><style type=text/css>p{text-align:justify;text-justify:inter-word;}</style></head><body style=background-color:#f3f3fd;><div class=header><table><tr><td><a href=/index.html class=menu_home>मंथन</a></td><td> | </td><td><a href=/archive.html class=menu_archive>Archive</a></td><td> | </td><td><a href=/tags.html class=menu_tags>Tags</a></td><td> | </td><td><a href=/stats.html class=menu_stats>Stats</a></td></tr></table></div><div class=body><h1>📊 Stats <a name=top></a></h1><h2>Summary <a href=#top> ↟ </a></h2><ul><li>There are a total of <code>80</code> posts with <code>9</code> tags, written over a period of <code>9y0m8d</code> (from <code>16/Nov/2011</code> till <code>24/Nov/2020</code>)</li><li>From the most recent update (on <code>06/Dec/2020</code>), it's been <code>0y0m12d</code> when the last post was published and <code>9y0m20d</code> since the first post</li><li>The year <code>2019</code> has highest number of posts with a count of <code>34</code>, while the year <code>2016</code> has lowest number of posts with a count of <code>2</code></li><li>The year <code>2020</code> has highest number of tags with a count of <code>4</code>, while the year <code>2016</code> has lowest number of tags with a count of <code>1</code></li><li>The most widely used of all <code>9</code> tags across <code>80</code> posts is <code>writeup</code> while the least used is <code>tryhackme</code></li><li>On an average, there are <code>15</code> posts per tag and <code>10</code> posts, <code>2</code> tags per year</li></ul><h2>Graphs <a href=#top> ↟ </a></h2><h3>Posts per Tag <a href=#top> ↟ </a></h3><p><img class=rectimages src=/static/files/pages_stats/posts_per_tag.png.webp></p><h3>Posts per Year <a href=#top> ↟ </a></h3><p><img class=rectimages src=/static/files/pages_stats/posts_per_year.png.webp></p><h3>Tags per Year <a href=#top> ↟ </a></h3><p><img class=rectimages src=/static/files/pages_stats/tags_per_year.png.webp></p></div><script>function toggle(s){s.classList.toggle("expanded");var t=!1,i=!1,a=!1;s.classList.contains("h2")&&(t=!0),s.classList.contains("h3")&&(i=!0),s.classList.contains("h4")&&(a=!0),console.log(s),console.log(t),console.log(i),console.log(a);for(var l=s.nextElementSibling;l;){if(t&&l.classList.contains("h2")){l.classList.toggle("active");break}if(i&&(l.classList.contains("h2")||l.classList.contains("h3"))){l.classList.toggle("active");break}if(a&&(l.classList.contains("h2")||l.classList.contains("h3")||l.classList.contains("h4"))){l.classList.toggle("active");break}l.classList.contains("collapsible")&&l.classList.toggle("expanded"),l.classList.toggle("active"),l=l.nextElementSibling}}</script><script data-goatcounter=https://manthan.goatcounter.com/count async src=//gc.zgo.at/count.js></script><div class="footer footercenter"><span><a href=https://creativecommons.org/licenses/by-sa/4.0/ class=footspan>  </a></span></div></body></html>
+<!DOCTYPE html><html lang=en><head><meta charset=utf-8><meta name=author content="Ankur Tyagi (@7h3rAm)"><meta name=description content="Personal Weblog"><meta content="width=device-width, initial-scale=1" name=viewport><title>मंथन | Manthan</title><link rel=icon type=image/webp sizes=32x32 href=/static/images/manthan-32x32.png.webp><link rel=stylesheet type=text/css media=screen href=/static/css/style.rainbow.css><style type=text/css>p{text-align:justify;text-justify:inter-word;}</style></head><body style=background-color:#f3f3fd;><div class=header><table><tr><td><a href=/index.html class=menu_home>मंथन</a></td><td> | </td><td><a href=/archive.html class=menu_archive>Archive</a></td><td> | </td><td><a href=/tags.html class=menu_tags>Tags</a></td><td> | </td><td><a href=/stats.html class=menu_stats>Stats</a></td></tr></table></div><div class=body><h1>📊 Stats <a name=top></a></h1><h2>Summary <a href=#top> ↟ </a></h2><ul><li>There are a total of <code>80</code> posts with <code>9</code> tags, written over a period of <code>9y0m8d</code> (from <code>16/Nov/2011</code> till <code>24/Nov/2020</code>)</li><li>From the most recent update (on <code>14/Dec/2020</code>), it's been <code>0y0m20d</code> when the last post was published and <code>9y0m28d</code> since the first post</li><li>The year <code>2019</code> has highest number of posts with a count of <code>34</code>, while the year <code>2016</code> has lowest number of posts with a count of <code>2</code></li><li>The year <code>2020</code> has highest number of tags with a count of <code>4</code>, while the year <code>2016</code> has lowest number of tags with a count of <code>1</code></li><li>The most widely used of all <code>9</code> tags across <code>80</code> posts is <code>writeup</code> while the least used is <code>tryhackme</code></li><li>On an average, there are <code>15</code> posts per tag and <code>10</code> posts, <code>2</code> tags per year</li></ul><h2>Graphs <a href=#top> ↟ </a></h2><h3>Posts per Tag <a href=#top> ↟ </a></h3><p><img class=rectimages src=/static/files/pages_stats/posts_per_tag.png.webp></p><h3>Posts per Year <a href=#top> ↟ </a></h3><p><img class=rectimages src=/static/files/pages_stats/posts_per_year.png.webp></p><h3>Tags per Year <a href=#top> ↟ </a></h3><p><img class=rectimages src=/static/files/pages_stats/tags_per_year.png.webp></p></div><script>function toggle(s){s.classList.toggle("expanded");var t=!1,i=!1,a=!1;s.classList.contains("h2")&&(t=!0),s.classList.contains("h3")&&(i=!0),s.classList.contains("h4")&&(a=!0),console.log(s),console.log(t),console.log(i),console.log(a);for(var l=s.nextElementSibling;l;){if(t&&l.classList.contains("h2")){l.classList.toggle("active");break}if(i&&(l.classList.contains("h2")||l.classList.contains("h3"))){l.classList.toggle("active");break}if(a&&(l.classList.contains("h2")||l.classList.contains("h3")||l.classList.contains("h4"))){l.classList.toggle("active");break}l.classList.contains("collapsible")&&l.classList.toggle("expanded"),l.classList.toggle("active"),l=l.nextElementSibling}}</script><script data-goatcounter=https://manthan.goatcounter.com/count async src=//gc.zgo.at/count.js></script><div class="footer footercenter"><span><a href=https://creativecommons.org/licenses/by-sa/4.0/ class=footspan>  </a></span></div></body></html>
